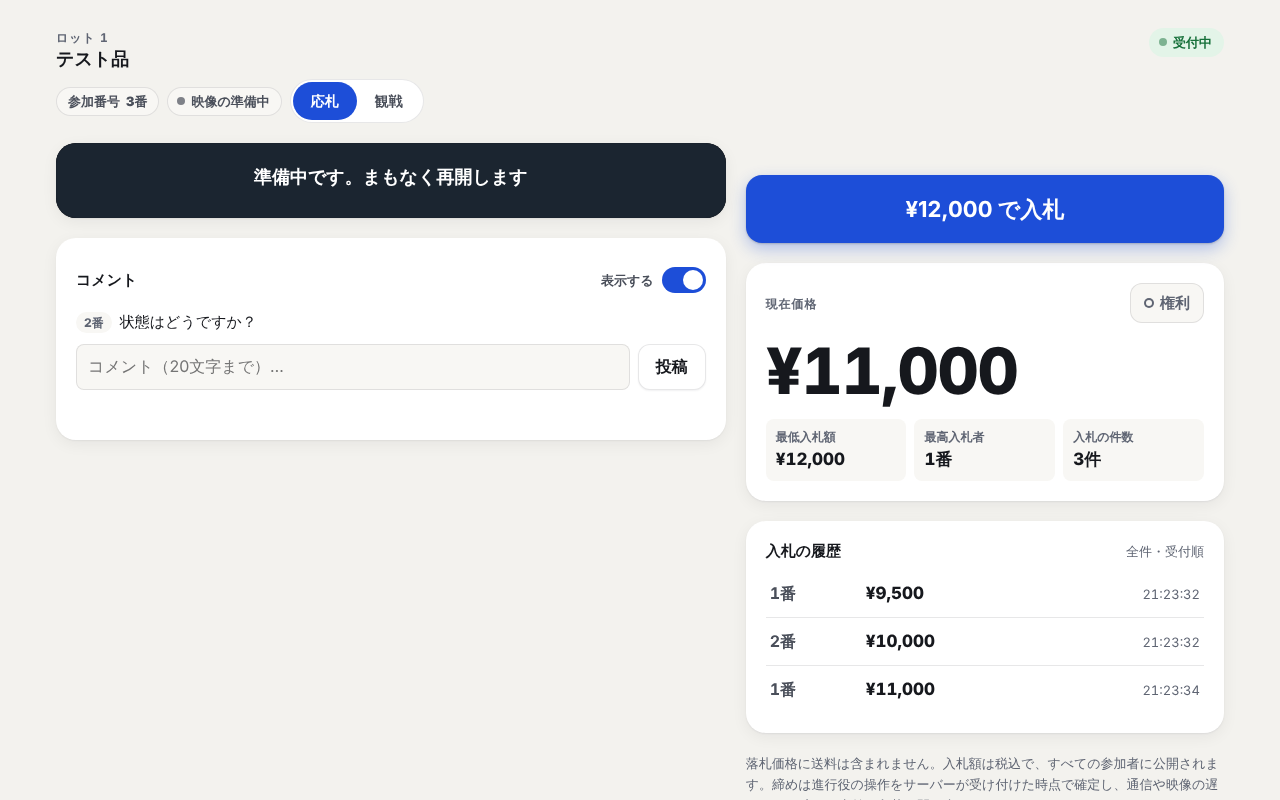
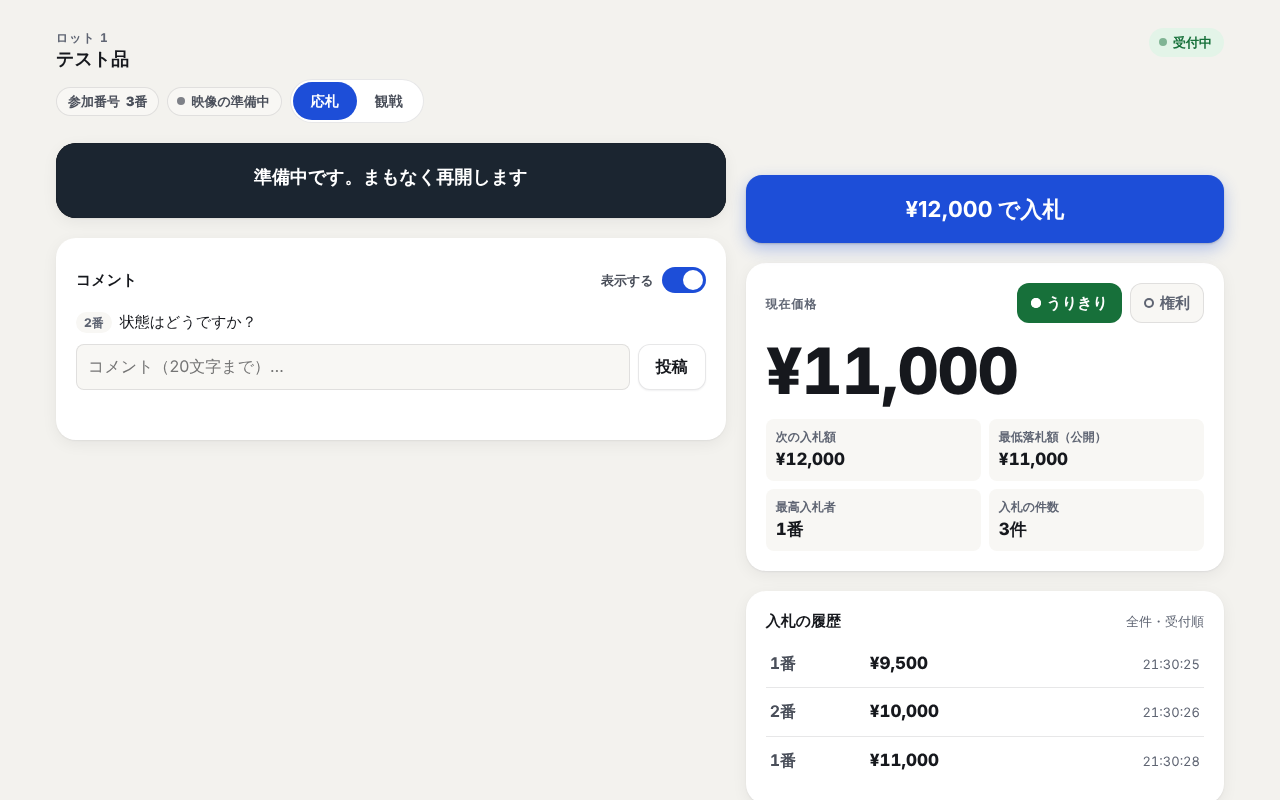
「うりきり」と公開の最低落札額を追加。落札の条件を「権利」と「うりきり」の両方にする
- ロットに最低落札額（任意）を設定できる。金額は全員の画面に表示する
- 現在価格が最低落札額以上で「うりきり」が点く。届かないまま締めると、入札があっても流札
- 強制終了からの復旧でも同じ条件で判定する
- 入札画面と進行コンソールに、うりきりの表示と最低落札額を追加

Claude-Session: https://claude.ai/code/session_01Uo5Yu1A7m6DzEHqwq9fkYt

diff --git a/web/console.html b/web/console.html
@@ -23,7 +23,9 @@
   #title { font-size: 20px; font-weight: 800; overflow-wrap: anywhere; }
   #price { font-size: clamp(48px, 7vw, 76px); font-weight: 800; line-height: 1.05; letter-spacing: -.02em; margin: 4px 0 12px; }
   #price small { font-size: 16px; font-weight: 700; color: var(--ink-3); letter-spacing: 0; margin-left: 8px; }
-  .facts { display: grid; grid-template-columns: repeat(2, minmax(0, 1fr)); gap: 8px; margin: 0 0 16px; }
+  .facts { display: grid; grid-template-columns: repeat(3, minmax(0, 1fr)); gap: 8px; margin: 0 0 16px; }
+  .facts dd small { display: block; font-size: 12px; font-weight: 700; color: var(--ink-3); }
+  .facts dd small[data-on="1"] { color: var(--ok); }
   .facts div { background: var(--surface-2); border-radius: var(--r-sm); padding: 8px 12px; }
   .facts dt { font-size: 12px; font-weight: 700; color: var(--ink-3); }
   .facts dd { margin: 0; font-size: 20px; font-weight: 800; }
@@ -62,8 +64,8 @@
   tr.focus td:last-child { border-radius: 0 var(--r-sm) var(--r-sm) 0; }
   td .btn { min-height: 40px; padding: 6px 14px; font-size: 14px; }
   #lotsEmpty { color: var(--ink-3); font-size: 14px; padding: 12px 0; }
-  .addlot { display: grid; grid-template-columns: minmax(0, 1fr) 140px auto; gap: 8px; align-items: end; margin-top: 16px; }
-  @media (max-width: 520px) { .addlot { grid-template-columns: minmax(0, 1fr); } }
+  .addlot { display: grid; grid-template-columns: minmax(0, 1fr) 130px 150px auto; gap: 8px; align-items: end; margin-top: 16px; }
+  @media (max-width: 640px) { .addlot { grid-template-columns: minmax(0, 1fr); } }
 
   .cmtlist { list-style: none; margin: 0; padding: 0; max-height: 220px; overflow: auto; overscroll-behavior: contain; }
   .cmtlist li { display: grid; grid-template-columns: auto minmax(0, 1fr) auto; gap: 8px; align-items: center; padding: 6px 0; border-top: 1px solid var(--line); font-size: 14px; overflow-wrap: anywhere; }
@@ -94,8 +96,9 @@
       <p id="title">進行中のロットはありません</p>
       <div class="num" id="price" aria-live="polite">—</div>
       <dl class="facts num">
-        <div><dt>最低入札額</dt><dd id="min">—</dd></div>
+        <div><dt>次の入札額</dt><dd id="min">—</dd></div>
         <div><dt>最高入札者</dt><dd id="highest">—</dd></div>
+        <div><dt>最低落札額（公開）</dt><dd><span id="reserve">—</span><small id="urikiri"></small></dd></div>
       </dl>
       <div class="alert" id="warn" role="alert">配信が始まりません（60秒経過）<span>「映像なしで開始」か「待機に戻す」を選んでください。</span></div>
       <div class="actions">
@@ -116,12 +119,13 @@
     <section class="card" aria-labelledby="lotsTitle">
       <div class="cardhead"><h2 id="lotsTitle" class="eyebrow">ロット一覧</h2></div>
       <div class="tablewrap">
-        <table><thead><tr><th scope="col">番号</th><th scope="col">商品</th><th scope="col">開始価格</th><th scope="col">状態</th><th scope="col">結果</th><th scope="col"><span class="sr-only">操作</span></th></tr></thead><tbody id="lots" class="num"></tbody></table>
+        <table><thead><tr><th scope="col">番号</th><th scope="col">商品</th><th scope="col">開始価格</th><th scope="col">最低落札額</th><th scope="col">状態</th><th scope="col">結果</th><th scope="col"><span class="sr-only">操作</span></th></tr></thead><tbody id="lots" class="num"></tbody></table>
       </div>
       <p id="lotsEmpty">ロットがまだありません。下の欄から追加してください。</p>
       <form class="addlot" id="addLot">
         <label class="field">商品名<input class="input" id="newTitle" name="title" value="テスト品" autocomplete="off" required></label>
         <label class="field">開始価格（円・税込）<input class="input num" id="newPrice" name="price" type="number" inputmode="numeric" min="1" step="1" value="9500" autocomplete="off" required></label>
+        <label class="field">最低落札額（任意・公開）<input class="input num" id="newReserve" name="reserve" type="number" inputmode="numeric" min="1" step="1" autocomplete="off" placeholder="なし…"></label>
         <button class="btn" id="create" type="submit">ロットを追加</button>
       </form>
     </section>
@@ -220,6 +224,9 @@ function render() {
   if (lot && lot.currentPrice === null) { const sm = document.createElement('small'); sm.textContent = '開始価格・入札なし'; $('price').appendChild(sm); }
   $('min').textContent = lot && lot.status !== 'sold' && lot.status !== 'unsold' ? yen(lot.minBid) : '—';
   $('highest').textContent = lot?.highestPaddle ? `${lot.highestPaddle}番` : '—';
+  $('reserve').textContent = lot ? (lot.reservePrice === null ? 'なし' : yen(lot.reservePrice)) : '—';
+  $('urikiri').textContent = lot ? (lot.urikiri ? 'うりきり（締めれば売れる）' : 'うりきり前（締めると流札）') : '';
+  $('urikiri').dataset.on = lot?.urikiri ? '1' : '';
   $('warn').style.display = st === 'preparing_warn' ? 'grid' : 'none';
   $('b_close').disabled = st !== 'open'; $('b_suspend').disabled = st !== 'open';
   $('b_resume').disabled = st !== 'suspended'; $('b_cancel').disabled = st !== 'suspended';
@@ -233,8 +240,8 @@ function render() {
   for (const l of S.lots.values()) {
     const tr = document.createElement('tr');
     if (l.id === S.focus) tr.className = 'focus';
-    const cells = [l.lotNo, l.title, yen(l.startPrice), STATE_LABEL[l.status],
-      l.status === 'sold' ? `${l.highestPaddle}番 ${yen(l.currentPrice)}` : ''];
+    const cells = [l.lotNo, l.title, yen(l.startPrice), l.reservePrice === null ? 'なし' : yen(l.reservePrice), STATE_LABEL[l.status],
+      l.status === 'sold' ? `${l.highestPaddle}番 ${yen(l.currentPrice)}` : l.status === 'unsold' && l.currentPrice !== null ? '最低落札額に届かず' : ''];
     for (const c of cells) { const td = document.createElement('td'); td.textContent = c; tr.appendChild(td); }
     const td = document.createElement('td');
     if (l.status === 'waiting') {
@@ -272,7 +279,7 @@ async function cmd(action, extra = {}) {
   const res = await link.request(reqId, { type: 'cmd', reqId, action, ...extra, clientSentAt: sent, clientSentAtCorrected: sent + link.offset });
   if (!res) log(`${action}: 応答なし`);
   else if (!res.ok) log(`${action}: 拒否 — ${res.message}`);
-  else log(`${action}: OK${res.status ? `（${STATE_LABEL[res.status]} ${res.paddle ?? ''} ${res.amount ? yen(res.amount) : ''}）` : ''} ${Math.round(res.clientRecvAt - sent)}ms`);
+  else log(`${action}: OK${res.status ? `（${STATE_LABEL[res.status]}${res.reason === 'reserve_not_met' ? '・最低落札額に届かず' : ''} ${res.paddle ?? ''} ${res.amount ? yen(res.amount) : ''}）` : ''} ${Math.round(res.clientRecvAt - sent)}ms`);
   return res;
 }
 // 確認と理由の入力は、ブラウザ標準の prompt / confirm ではなく、画面の中のダイアログで行う
@@ -317,7 +324,7 @@ document.querySelectorAll('[data-crash]').forEach((b) => b.addEventListener('cli
 document.querySelectorAll('[data-mark]').forEach((b) => b.addEventListener('click', () => cmd('mark', { label: $('markLabel').value || 'unnamed', phase: b.dataset.mark })));
 $('markForm').addEventListener('submit', (ev) => ev.preventDefault());
 $('autoForm').addEventListener('submit', (ev) => { ev.preventDefault(); cmd('set_auto_stop', { ms: Number($('autoSec').value) * 1000 }); });
-$('addLot').addEventListener('submit', (ev) => { ev.preventDefault(); cmd('create_lot', { title: $('newTitle').value, startPrice: Number($('newPrice').value) }); });
+$('addLot').addEventListener('submit', (ev) => { ev.preventDefault(); cmd('create_lot', { title: $('newTitle').value, startPrice: Number($('newPrice').value), reservePrice: $('newReserve').value === '' ? null : Number($('newReserve').value) }); });
 
 function onMessage(msg, at) {
   switch (msg.type) {
@@ -340,7 +347,7 @@ function onMessage(msg, at) {
     }
     case 'price': {
       const lot = S.lots.get(msg.lotId);
-      if (lot) Object.assign(lot, { currentPrice: msg.currentPrice, minBid: msg.minBid, highestPaddle: msg.paddle });
+      if (lot) Object.assign(lot, { currentPrice: msg.currentPrice, minBid: msg.minBid, highestPaddle: msg.paddle, urikiri: msg.urikiri });
       if (msg.lotId === S.focus) S.history.push({ seq: msg.seq, amount: msg.amount, received_at: msg.receivedAt, valid: 1, paddle: msg.paddle });
       render(); break;
     }

diff --git a/web/bidder.html b/web/bidder.html
@@ -85,7 +85,16 @@
   #right.on::before, #right.won::before { background: currentColor; }
   #right.won { background: var(--ok); color: #fff; box-shadow: none; }
   @media (prefers-color-scheme: dark) { #right.on, #right.won { color: #10131a; } }
-  .facts { display: grid; grid-template-columns: repeat(3, minmax(0, 1fr)); gap: 8px; margin: 0; }
+  .facts { display: grid; grid-template-columns: repeat(2, minmax(0, 1fr)); gap: 8px; margin: 0; }
+  .lamps { display: flex; gap: 8px; flex-wrap: wrap; justify-content: flex-end; }
+  /* 「うりきり」「権利」は、点いているか消えているかを色だけでなく文字と印でも示す */
+  .lamp { display: inline-flex; align-items: center; gap: 6px; padding: 8px 14px; border-radius: var(--r-md); font-weight: 800; font-size: 15px; background: var(--surface-2); color: var(--ink-3); box-shadow: inset 0 0 0 1px var(--line); transition: background-color .2s ease, color .2s ease, transform .2s ease; }
+  .lamp::before { content: ""; width: 10px; height: 10px; border-radius: 50%; box-shadow: inset 0 0 0 2px currentColor; }
+  #urikiri.on { background: var(--ok); color: #fff; box-shadow: none; }
+  #urikiri.on::before { background: currentColor; }
+  @media (prefers-color-scheme: dark) { #urikiri.on { color: #10131a; } }
+  #hint { font-size: 14px; font-weight: 700; color: var(--warn); background: var(--warn-soft); border-radius: var(--r-sm); padding: 8px 12px; }
+  #hint:empty { display: none; }
   .facts div { background: var(--surface-2); border-radius: var(--r-sm); padding: 8px 10px; min-width: 0; }
   .facts dt { font-size: 12px; color: var(--ink-3); font-weight: 700; }
   .facts dd { margin: 0; font-size: 17px; font-weight: 800; overflow-wrap: anywhere; }
@@ -194,12 +203,17 @@
     <section class="card pricecard" aria-label="現在の価格">
       <div class="pricehead">
         <p class="eyebrow" id="priceLabel">現在価格</p>
-        <span id="right" aria-live="polite">権利</span>
+        <div class="lamps">
+          <span class="lamp" id="urikiri" aria-live="polite">うりきり</span>
+          <span id="right" aria-live="polite">権利</span>
+        </div>
       </div>
       <div class="num" id="price" aria-live="polite">—</div>
       <div id="banner" role="status"></div>
+      <p id="hint" role="status"></p>
       <dl class="facts num">
-        <div><dt>最低入札額</dt><dd id="min">—</dd></div>
+        <div><dt>次の入札額</dt><dd id="min">—</dd></div>
+        <div><dt>最低落札額（公開）</dt><dd id="reserve">—</dd></div>
         <div><dt>最高入札者</dt><dd id="highest">—</dd></div>
         <div><dt>入札の件数</dt><dd id="count">0件</dd></div>
       </dl>
@@ -296,7 +310,8 @@ function render() {
     $('lotNo').textContent = 'ロット —'; $('title').textContent = '次のロットをお待ちください';
     $('status').textContent = '—'; $('status').dataset.state = '';
     $('price').textContent = '—'; $('min').textContent = '—'; $('highest').textContent = '—'; $('banner').textContent = '';
-    $('bid').disabled = true; $('bid').textContent = '入札'; $('right').className = ''; S.shownPrice = null; return;
+    $('bid').disabled = true; $('bid').textContent = '入札'; $('right').className = ''; S.shownPrice = null;
+    $('urikiri').className = 'lamp'; $('reserve').textContent = '—'; $('hint').textContent = ''; return;
   }
   const mine = lot.highestPaddle !== null && lot.highestPaddle === S.paddle;
   $('lotNo').textContent = `ロット ${lot.lotNo}`;
@@ -312,12 +327,21 @@ function render() {
   S.shownPrice = price;
   $('min').textContent = lot.status === 'sold' || lot.status === 'unsold' ? '—' : yen(lot.minBid);
   $('highest').textContent = lot.highestPaddle === null ? '—' : `${lot.highestPaddle}番`;
-  $('right').className = mine ? (lot.status === 'sold' ? 'won' : 'on') : '';
-  $('right').textContent = mine ? (lot.status === 'sold' ? '落札' : '権利あり') : '権利';
+  $('right').className = mine && lot.status !== 'unsold' ? (lot.status === 'sold' ? 'won' : 'on') : '';
+  $('right').textContent = mine && lot.status !== 'unsold' ? (lot.status === 'sold' ? '落札' : '権利あり') : '権利';
+  // 「うりきり」: 最低落札額（公開）に届いていて、この価格で締めれば売れる状態。落札の条件は「うりきり」と「権利」の両方
+  const urikiri = !!lot.urikiri;
+  const ended = lot.status === 'sold' || lot.status === 'unsold';
+  $('urikiri').className = urikiri ? 'lamp on' : 'lamp';
+  $('urikiri').textContent = urikiri ? 'うりきり' : 'うりきり前';
+  $('reserve').textContent = lot.reservePrice === null ? 'なし' : yen(lot.reservePrice);
+  $('hint').textContent = !ended && !urikiri
+    ? `最低落札額 ${yen(lot.reservePrice)} に届くまでは、最高入札者でも落札になりません。`
+    : '';
   if (lot.status === 'sold') {
     $('banner').textContent = `${lot.highestPaddle}番 落札（${yen(lot.currentPrice)}）`;
     if (mine) document.body.classList.add('won');
-  } else if (lot.status === 'unsold') $('banner').textContent = '流札';
+  } else if (lot.status === 'unsold') $('banner').textContent = lot.currentPrice !== null ? '流札（最低落札額に届きませんでした）' : '流札';
   else if (lot.status === 'suspended') $('banner').textContent = '中断しています。再開をお待ちください';
   else $('banner').textContent = '';
   const watching = S.mode !== 'bid';
@@ -476,7 +500,7 @@ function onMessage(msg, at) {
       const lot = S.lots.get(msg.lotId);
       if (!lot) break;
       const outbid = S.wasHighest && msg.paddle !== S.paddle && msg.lotId === S.focus;
-      Object.assign(lot, { currentPrice: msg.currentPrice, minBid: msg.minBid, highestPaddle: msg.paddle });
+      Object.assign(lot, { currentPrice: msg.currentPrice, minBid: msg.minBid, highestPaddle: msg.paddle, urikiri: msg.urikiri });
       if (msg.lotId === S.focus) S.history.push({ seq: msg.seq, amount: msg.amount, received_at: msg.receivedAt, valid: 1, paddle: msg.paddle });
       render(); renderHistory();
       if (outbid) notifyOutbid(msg);
@@ -518,7 +542,7 @@ $('bid').addEventListener('click', async () => {
   const shown = localNow();
   say(res.accepted ? `受理されました：${yen(res.amount)}` : (REJECT[res.code]?.(res) ?? res.code), res.accepted ? 'ok' : 'ng');
   Object.assign(lot, { currentPrice: res.currentPrice, minBid: res.minBid });
-  if (res.accepted) lot.highestPaddle = S.paddle;
+  if (res.accepted) { lot.highestPaddle = S.paddle; lot.urikiri = lot.reservePrice === null || res.currentPrice >= lot.reservePrice; }
   render();
   // ボタンを押してから、受理・拒否が画面に出るまで（P3-7）
   const ms = Math.round(shown - sent);

diff --git a/server/src/auction.js b/server/src/auction.js
@@ -9,6 +9,15 @@ import { minimumBid, isOnLadder, validateTable } from './ladder.js';
 
 export const TERMINAL = new Set(['sold', 'unsold', 'not_held']);
 
+/**
+ * 「うりきり」: この価格で締めれば売れる状態か。
+ * 最低落札額（全員に公開する金額）がないロットは、いつでも売れる。あるロットは、現在価格がその額以上になったとき。
+ */
+export function reserveMet(reservePrice, currentPrice) {
+  if (reservePrice === null || reservePrice === undefined) return true;
+  return currentPrice !== null && currentPrice !== undefined && currentPrice >= reservePrice;
+}
+
 export class Auction {
   /**
    * @param {object} deps
@@ -158,7 +167,7 @@ export class Auction {
     if (accepted) {
       broadcastAt = this.broadcast({
         type: 'price', lotId: item.lotId, seq: item.seq, amount: item.amount, paddle: item.member.paddle_no,
-        receivedAt: item.receivedAt, currentPrice, minBid,
+        receivedAt: item.receivedAt, currentPrice, minBid, urikiri: reserveMet(lot.reserve_price, currentPrice),
       });
     }
     this.metrics.write('bid', {
@@ -299,17 +308,21 @@ export class Auction {
   #finalize(lot, closeSeq, actor, data = {}, item = null) {
     const { q, tx } = this.store;
     const fresh = q.lot.get(lot.id);
-    const status = fresh.current_bid_seq ? 'sold' : 'unsold'; // 受理された有効な入札が1件以上あれば落札
+    // 落札の条件: 受理された有効な入札があり（＝最高入札者に「権利」がある）、かつ最低落札額に届いている（＝「うりきり」）
+    const met = reserveMet(fresh.reserve_price, fresh.current_price);
+    const status = fresh.current_bid_seq && met ? 'sold' : 'unsold';
+    const reason = status === 'unsold' ? (fresh.current_bid_seq ? 'reserve_not_met' : 'no_bids') : null;
     const at = nowMs();
     tx(() => {
-      q.finalize.run(status, closeSeq, fresh.current_bid_seq, at, lot.id);
+      q.finalize.run(status, closeSeq, status === 'sold' ? fresh.current_bid_seq : null, at, lot.id);
       q.insertEvent.run(this.nextSeq(), lot.id, 'finalized', at, actor, JSON.stringify({
-        status, closeSeq, winnerBidSeq: fresh.current_bid_seq, amount: fresh.current_price, paddle: fresh.highest_paddle, ...data,
+        status, reason, reservePrice: fresh.reserve_price, closeSeq, winnerBidSeq: status === 'sold' ? fresh.current_bid_seq : null,
+        amount: fresh.current_price, paddle: fresh.highest_paddle, ...data,
       }));
     });
     const finalizedAt = nowMs();
     const result = {
-      status, closeSeq, paddle: fresh.highest_paddle ?? null, amount: fresh.current_price ?? null,
+      status, reason, closeSeq, paddle: fresh.highest_paddle ?? null, amount: fresh.current_price ?? null,
     };
     // 確定したら、すぐに全員へ結果を送る（FR-CLS-003）
     const sentAt = this.broadcast({
@@ -342,6 +355,8 @@ export class Auction {
       currentPrice: lot.current_price ?? null, // 入札がなければ null（画面には開始価格を出す）
       minBid: minimumBid(lot.start_price, lot.current_price, this.config.incrementTable, lot.unit_override),
       highestPaddle: lot.highest_paddle ?? null,
+      reservePrice: lot.reserve_price ?? null, // 最低落札額。全員に公開する（隠さない）
+      urikiri: reserveMet(lot.reserve_price, lot.current_price),
       closeSeq: lot.close_seq ?? null,
     };
   }
@@ -358,8 +373,16 @@ export class Auction {
     };
   }
 
-  createLot({ title, startPrice, unitOverride = null }) {
-    const info = this.store.q.insertLot.run(String(title), Number(startPrice), unitOverride, nowMs());
+  createLot({ title, startPrice, unitOverride = null, reservePrice = null }) {
+    const start = Number(startPrice);
+    if (!Number.isSafeInteger(start) || start <= 0) throw new Error('開始価格は1円以上の整数にしてください');
+    let reserve = reservePrice === null || reservePrice === undefined || reservePrice === '' ? null : Number(reservePrice);
+    if (reserve !== null) {
+      if (!Number.isSafeInteger(reserve) || reserve < start) throw new Error('最低落札額は、開始価格以上の整数にしてください');
+      if (!isOnLadder(reserve, start, this.config.incrementTable, unitOverride)) throw new Error('最低落札額は、入札できる金額（価格の段）に合わせてください');
+      if (reserve === start) reserve = null; // 開始価格と同じなら、最初の入札で必ず届くので、設定なしと同じ
+    }
+    const info = this.store.q.insertLot.run(String(title), start, unitOverride, reserve, nowMs());
     const lot = this.lotView(Number(info.lastInsertRowid));
     this.broadcast({ type: 'lot', lot });
     return lot;

diff --git a/server/test/07-urikiri.test.js b/server/test/07-urikiri.test.js
@@ -1,0 +1,74 @@
+// 「うりきり」: 最低落札額（全員に公開）に届いているか。落札の条件は「権利」と「うりきり」の両方。
+import test, { before, after } from 'node:test';
+import assert from 'node:assert/strict';
+import { makeEnv, startServer, connectAll, createLot, lotLog, cleanup } from './helpers.js';
+
+let ctx, srv, A, m;
+before(async () => {
+  ctx = makeEnv();
+  srv = await startServer(ctx);
+  ({ auctioneer: A, members: m } = await connectAll(srv, ctx, 3));
+});
+after(async () => { await srv.stop(); cleanup(ctx); });
+
+test('最低落札額は全員に見え、届いたときに「うりきり」になる。届いて締めれば落札', async () => {
+  const lot = await createLot(A, 9500, null, 'テスト品', 11000);
+  // 会員の画面にも、最低落札額の金額そのものが届いている（隠さない）
+  assert.equal(m[0].lots.get(lot.id).reservePrice, 11000);
+  assert.equal(m[0].lots.get(lot.id).urikiri, false);
+  await A.cmd('start', { lotId: lot.id });
+
+  const p1 = m[2].waitFor((x) => x.type === 'price' && x.amount === 9500);
+  assert.equal((await m[0].bid(lot.id, 9500)).accepted, true);
+  assert.equal((await p1).urikiri, false); // 権利はあるが、まだ売れる価格ではない
+  await m[1].bid(lot.id, 10000);
+  const p3 = m[2].waitFor((x) => x.type === 'price' && x.amount === 11000);
+  assert.equal((await m[0].bid(lot.id, 11000)).accepted, true);
+  assert.equal((await p3).urikiri, true); // 最低落札額ちょうどで届く
+
+  const res = await A.cmd('close', { lotId: lot.id });
+  assert.deepEqual([res.status, res.reason, res.amount, res.paddle], ['sold', null, 11000, m[0].paddle]);
+});
+
+test('入札があっても、最低落札額に届かないまま締めると流札になる', async () => {
+  const lot = await createLot(A, 9500, null, 'テスト品', 12000);
+  await A.cmd('start', { lotId: lot.id });
+  assert.equal((await m[0].bid(lot.id, 9500)).accepted, true);
+  assert.equal((await m[1].bid(lot.id, 10000)).accepted, true);
+  const got = m[2].waitFor((x) => x.type === 'result' && x.lotId === lot.id);
+  const res = await A.cmd('close', { lotId: lot.id });
+  assert.deepEqual([res.status, res.reason], ['unsold', 'reserve_not_met']);
+  const shown = await got;
+  assert.deepEqual([shown.status, shown.reason, shown.amount], ['unsold', 'reserve_not_met', 10000]);
+  const log = await lotLog(A, lot.id);
+  assert.equal(log.lot.status, 'unsold');
+  assert.equal(log.events.find((e) => e.type === 'finalized').data.winnerBidSeq, null);
+  assert.equal(log.bids.filter((b) => b.result === 'ACCEPTED').length, 2); // 入札の記録は残る
+  assert.equal((await m[2].bid(lot.id, 11000)).code, 'AFTER_CLOSE');
+});
+
+test('最低落札額のないロットは、いつでも「うりきり」。設定の誤りは拒否する', async () => {
+  const lot = await createLot(A, 9500);
+  assert.deepEqual([lot.reservePrice, lot.urikiri], [null, true]);
+  const same = await createLot(A, 9500, null, 'テスト品', 9500); // 開始価格と同じなら、設定なしと同じ
+  assert.deepEqual([same.reservePrice, same.urikiri], [null, true]);
+  for (const bad of [9000, 10500, 1.5]) {
+    const r = await A.cmd('create_lot', { title: 'x', startPrice: 9500, reservePrice: bad });
+    assert.equal(r.ok, false, String(bad));
+    assert.ok(r.message);
+  }
+});
+
+test('締めの記録の直後に落ちても、復旧時に同じ条件で判定する（届いていなければ流札）', async () => {
+  const lot = await createLot(A, 9500, null, 'テスト品', 12000);
+  await A.cmd('start', { lotId: lot.id });
+  await m[0].bid(lot.id, 9500);
+  await A.cmd('crash', { point: 'after_close_record' });
+  A.cmd('close', { lotId: lot.id }).catch(() => {});
+  await srv.exited;
+  srv = await startServer(ctx);
+  ({ auctioneer: A, members: m } = await connectAll(srv, ctx, 3));
+  const log = await lotLog(A, lot.id);
+  assert.equal(log.lot.status, 'unsold');
+  assert.equal(log.events.find((e) => e.type === 'finalized').data.reason, 'reserve_not_met');
+});

diff --git a/server/src/db.js b/server/src/db.js
@@ -26,6 +26,7 @@ CREATE TABLE IF NOT EXISTS lots (
   title TEXT NOT NULL,
   start_price INTEGER NOT NULL CHECK (start_price > 0),   -- 税込（FR-BID-010）
   unit_override INTEGER,                                    -- 商品ごとの入札単位の上書き（FR-BID-005）
+  reserve_price INTEGER,                                    -- 最低落札額（全員に公開する。なければ NULL）
   status TEXT NOT NULL DEFAULT 'waiting'
     CHECK (status IN ('waiting','preparing','preparing_warn','open','suspended','sold','unsold','not_held')),
   prep_from TEXT,                 -- 配信準備中に入る前の状態（waiting / suspended）
@@ -81,6 +82,10 @@ export function openDb(dbPath) {
   db.pragma('synchronous = FULL'); // コミットごとに fsync する。電源断でも受理済みの入札を失わない
   db.pragma('foreign_keys = ON');
   db.exec(SCHEMA);
+  // 以前の版で作ったデータベースに、後から足した列を加える
+  if (!db.prepare(`SELECT 1 FROM pragma_table_info('lots') WHERE name = 'reserve_price'`).get()) {
+    db.exec('ALTER TABLE lots ADD COLUMN reserve_price INTEGER');
+  }
 
   const q = {
     lot: db.prepare(`
@@ -123,8 +128,8 @@ export function openDb(dbPath) {
     memberByToken: db.prepare(`SELECT id, paddle_no, name FROM members WHERE token_hash = ?`),
     staffByToken: db.prepare(`SELECT id, role, name FROM staff WHERE token_hash = ?`),
     insertLot: db.prepare(
-      `INSERT INTO lots (lot_no, title, start_price, unit_override, updated_at)
-       VALUES ((SELECT COALESCE(MAX(lot_no), 0) + 1 FROM lots), ?, ?, ?, ?)`),
+      `INSERT INTO lots (lot_no, title, start_price, unit_override, reserve_price, updated_at)
+       VALUES ((SELECT COALESCE(MAX(lot_no), 0) + 1 FROM lots), ?, ?, ?, ?, ?)`),
     insertMember: db.prepare(`INSERT INTO members (paddle_no, name, token_hash) VALUES (?, ?, ?)`),
     insertComment: db.prepare(`INSERT INTO comments (lot_id, member_id, body, at) VALUES (?, ?, ?, ?)`),
     hideComment: db.prepare(`UPDATE comments SET hidden = 1 WHERE id = ?`),

diff --git a/server/test/helpers.js b/server/test/helpers.js
@@ -57,8 +57,8 @@ export async function connectAll(srv, ctx, n) {
   return { auctioneer, members };
 }
 
-export async function createLot(auctioneer, startPrice, unitOverride = null, title = 'テスト品') {
-  const res = await auctioneer.cmd('create_lot', { title, startPrice, unitOverride });
+export async function createLot(auctioneer, startPrice, unitOverride = null, title = 'テスト品', reservePrice = null) {
+  const res = await auctioneer.cmd('create_lot', { title, startPrice, unitOverride, reservePrice });
   if (!res.ok) throw new Error(res.message);
   return res.lot;
 }

diff --git a/tools/client.js b/tools/client.js
@@ -66,7 +66,7 @@ export class Client {
         break;
       case 'price': {
         const lot = this.lots.get(msg.lotId);
-        if (lot) Object.assign(lot, { currentPrice: msg.currentPrice, minBid: msg.minBid, highestPaddle: msg.paddle });
+        if (lot) Object.assign(lot, { currentPrice: msg.currentPrice, minBid: msg.minBid, highestPaddle: msg.paddle, urikiri: msg.urikiri });
         if (this.ack) this.send({ type: 'price_ack', seq: msg.seq, at: at + this.offset, net: this.net });
         break;
       }
